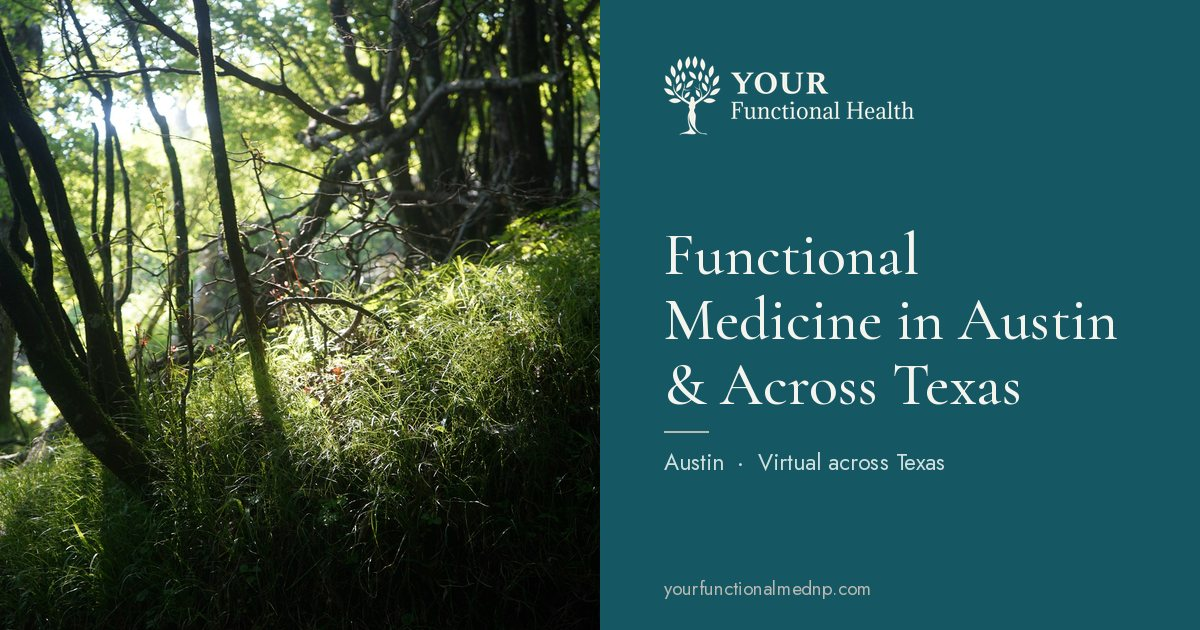
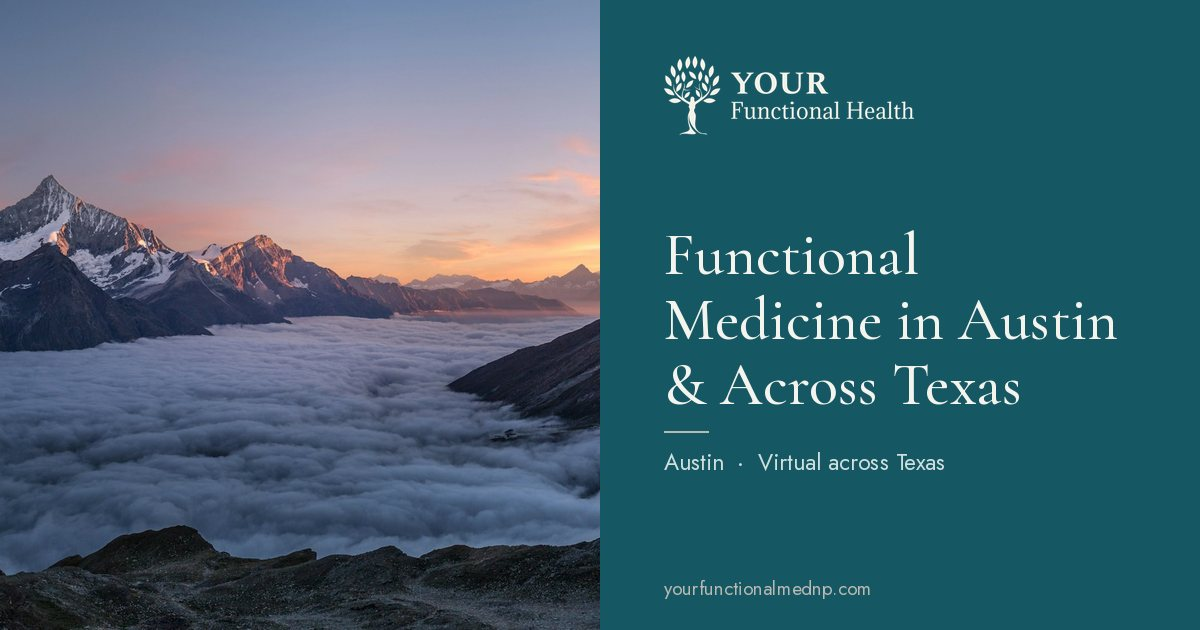
Share images: home uses Xenia's photo, functional medicine uses mountain sunrise
Claude-Session: https://claude.ai/code/session_01PHjebX1z2Q1rrJPr9fbAAu

diff --git a/src/tools/make_share_images.py b/src/tools/make_share_images.py
@@ -36,7 +36,8 @@ ACCENT = (186, 185, 180)
 
 # Pages without a hero photo, or where a different picture shares better.
 PAGE_PHOTO = {
-    "/": os.path.join(ASSETS, "photos", "xenia-sunflowers.jpg"),
+    "/": os.path.join(ASSETS, "xenia.jpg"),
+    "/functional-medicine-austin": "https://images.unsplash.com/photo-1506905925346-21bda4d32df4",  # mountain ridges at sunrise
     "/store": os.path.join(ASSETS, "photos", "mira-device.jpg"),
     "/clinicians": "app-screens",
     "/pp": "index", "/terms-of-use": "index", "/404": "index",
@@ -87,6 +88,9 @@ def fetch(url, dest):
 
 def page_photo(page):
     p = PAGE_PHOTO.get(page["path"])
+    if p and p.startswith("https://"):
+        pid = re.search(r"photo-[\w-]+", p).group(0)
+        return fetch(p, os.path.join(CACHE, pid + ".jpg"))
     if p == "app-screens":
         return app_screens()
     if p == "index":
